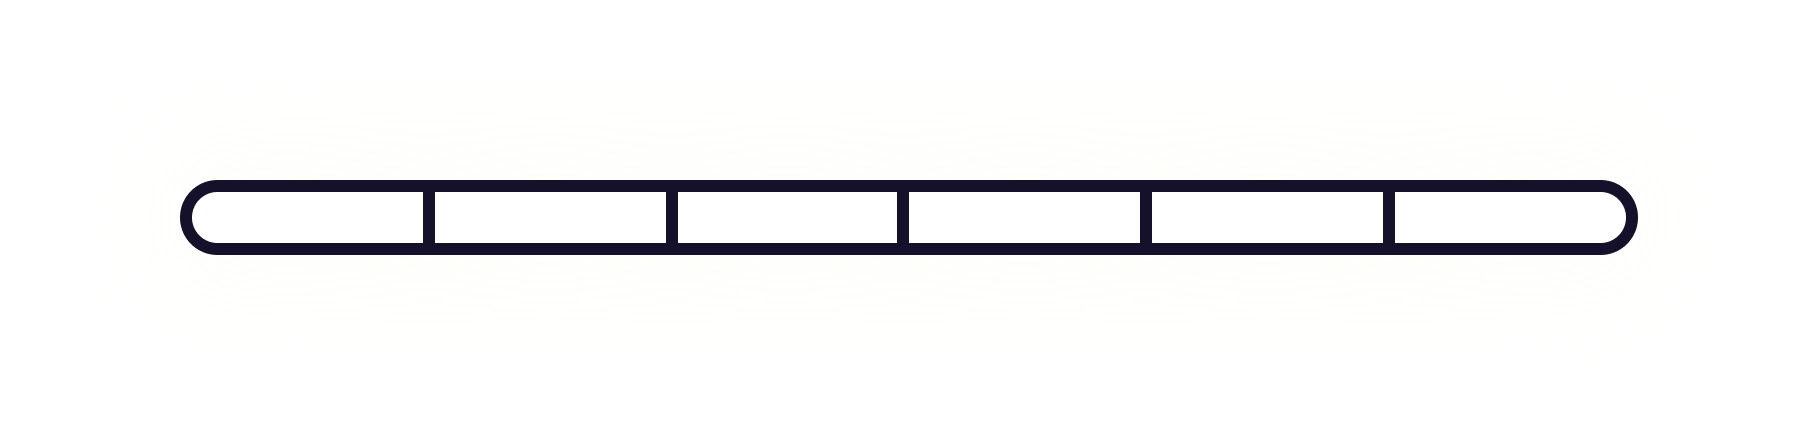
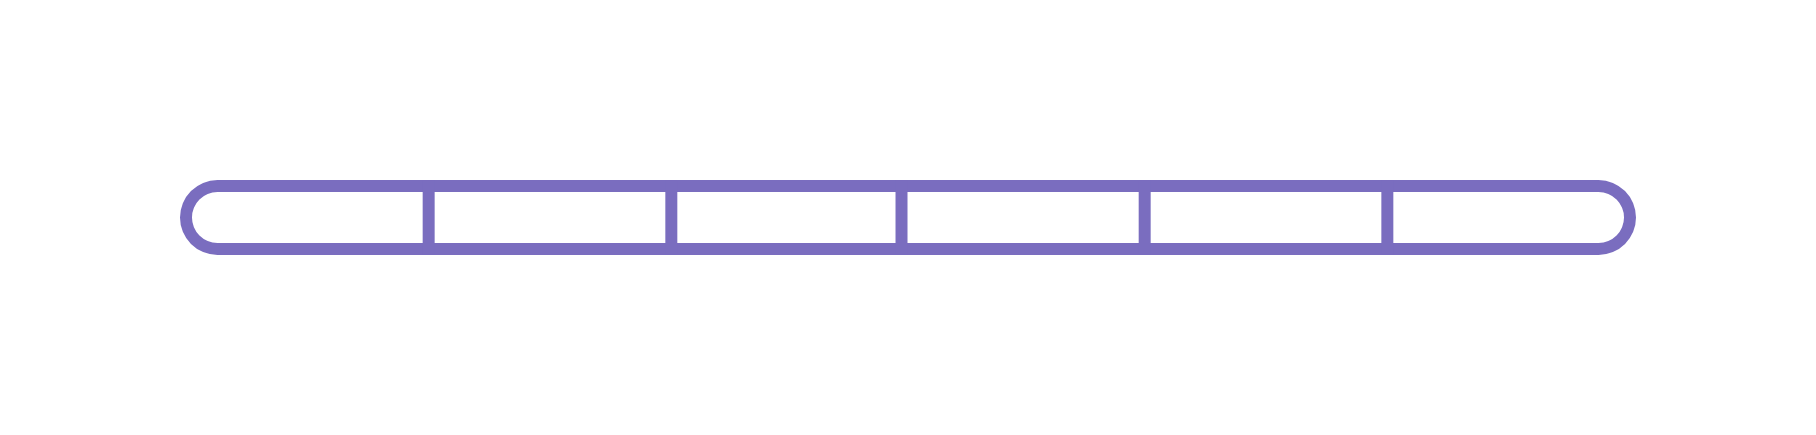
Color Umbrae y barra de vida del Umbrae
Ajusté las luces y sombras del umbrae y cambié la barra de vida.

Changed region(s): [[0.0925, 0.3885, 0.9251, 0.5977]]

diff --git a/Assets/_Scripts/SombraBarraUmbrae.cs b/Assets/_Scripts/SombraBarraUmbrae.cs
@@ -1,0 +1,89 @@
+using UnityEngine;
+
+// Drop shadow violeta y suave de la barra de vida de Umbrae (en el Figma: violeta 7340A2, sin corrimiento).
+// Pone detras de cada pieza una copia con el shader "Pomelo/Sprite Sombra Exterior" (desenfoque por mipmaps:
+// los PNG de la barra tienen mipmaps y malla FullRect). Todo se ajusta desde aca, tambien jugando.
+public class SombraBarraUmbrae : MonoBehaviour
+{
+    [Tooltip("Material con el shader 'Pomelo/Sprite Sombra Exterior' (SombraBarraUmbrae.mat).")]
+    [SerializeField] private Material material;
+    [Tooltip("Piezas que llevan sombra.")]
+    [SerializeField] private SpriteRenderer[] piezas;
+
+    [Header("Sombra")]
+    [SerializeField] private Color color = new Color(0.4485f, 0.2506f, 0.6337f, 1f);
+    [Range(0f, 1f)] [SerializeField] private float opacidad = 0.35f;
+    [Tooltip("Desenfoque en px del Figma (en el Figma: 60).")]
+    [SerializeField] private float desenfoque = 60f;
+    [Tooltip("Corrimiento vertical en px del Figma (positivo = la sombra baja).")]
+    [SerializeField] private float corrimientoY = 0f;
+    [Tooltip("Orden de dibujo de las sombras (debajo de la pista, que esta en 3).")]
+    [SerializeField] private int orden = 1;
+
+    [Header("Escala de los PNG")]
+    [SerializeField] private float pixelesPorUnidad = 75f;
+    [Tooltip("Px de los PNG por px del Figma (se exportaron a 1456/852.62).")]
+    [SerializeField] private float pxPorPxFigma = 1.7077f;
+    [Tooltip("Cuanto se agranda el dibujo de la sombra para que no se corte (texeles).")]
+    [SerializeField] private float margen = 80f;
+
+    private SpriteRenderer[] sombras;
+    private MaterialPropertyBlock mpb;
+
+    private static readonly int IdA = Shader.PropertyToID("_SombraA");
+    private static readonly int IdAOpacidad = Shader.PropertyToID("_SombraAOpacidad");
+    private static readonly int IdABlur = Shader.PropertyToID("_SombraABlur");
+    private static readonly int IdAOffset = Shader.PropertyToID("_SombraAOffsetY");
+    private static readonly int IdBOpacidad = Shader.PropertyToID("_SombraBOpacidad");
+    private static readonly int IdPPU = Shader.PropertyToID("_PPU");
+    private static readonly int IdMargen = Shader.PropertyToID("_Margen");
+    private static readonly int IdEscala = Shader.PropertyToID("_EscalaFigma");
+    private static readonly int IdAlfa = Shader.PropertyToID("_Alfa");
+
+    private void Start()
+    {
+        mpb = new MaterialPropertyBlock();
+        if (material == null || piezas == null) return;
+        sombras = new SpriteRenderer[piezas.Length];
+        for (int i = 0; i < piezas.Length; i++)
+        {
+            var p = piezas[i];
+            if (p == null) continue;
+            var go = new GameObject(p.name + " (sombra)");
+            go.transform.SetParent(p.transform, false);
+            var sr = go.AddComponent<SpriteRenderer>();
+            sr.sharedMaterial = material;
+            sr.sortingLayerID = p.sortingLayerID;
+            sombras[i] = sr;
+        }
+        LateUpdate();
+    }
+
+    // cada cuadro: sigue el dibujo de su pieza (y si esta prendida) y toma los valores de arriba
+    private void LateUpdate()
+    {
+        if (sombras == null) return;
+        for (int i = 0; i < sombras.Length; i++)
+        {
+            var s = sombras[i];
+            var p = piezas[i];
+            if (s == null || p == null) continue;
+            s.enabled = p.enabled && p.gameObject.activeInHierarchy && p.sprite != null && opacidad > 0f;
+            if (!s.enabled) continue;
+            s.sprite = p.sprite;
+            s.flipX = p.flipX;
+            s.sortingOrder = orden;
+            s.GetPropertyBlock(mpb);
+            mpb.SetColor(IdA, new Color(color.r, color.g, color.b, 1f));
+            mpb.SetFloat(IdAOpacidad, opacidad * color.a);
+            mpb.SetFloat(IdABlur, desenfoque);
+            mpb.SetFloat(IdAOffset, corrimientoY);
+            mpb.SetFloat(IdBOpacidad, 0f);
+            mpb.SetFloat(IdPPU, pixelesPorUnidad);
+            mpb.SetFloat(IdMargen, margen);
+            mpb.SetFloat(IdEscala, pxPorPxFigma);
+            mpb.SetFloat(IdAlfa, p.color.a);
+            s.SetPropertyBlock(mpb);
+        }
+    }
+}

diff --git a/Assets/_Scripts/BarraVidaUmbrae.cs b/Assets/_Scripts/BarraVidaUmbrae.cs
@@ -37,6 +37,17 @@ public class BarraVidaUmbrae : MonoBehaviour
     [Tooltip("Material con el shader Pomelo/Sprite Aditivo: copias de los ornamentos que suman luz violeta.")]
     [SerializeField] private Material materialAditivo;
 
+    [Header("Al morir Umbrae")]
+    [Tooltip("Segundos que se ve la barra vacia (con la gema llena de color) antes de empezar a desaparecer.")]
+    [SerializeField] private float esperaAlMorir = 1.2f;
+    [Tooltip("Segundos que tarda toda la barra en desvanecerse.")]
+    [SerializeField] private float segundosDesaparecer = 1f;
+
+    private float muerteDesde = -1f;
+    private SpriteRenderer[] todos;
+    private float[] alfasOriginales;
+    private bool desaparecida;
+
     private float relleno, asentado, fantasma;
     private float ultimoGolpe = -99f;
     private Vector3 posicion;
@@ -123,6 +134,31 @@ public class BarraVidaUmbrae : MonoBehaviour
         var cb = colorProtegido; cb.a = alfaBrillo;
         foreach (var b in brillos)
             if (b != null) { b.GetPropertyBlock(mpbBrillo); mpbBrillo.SetColor(IdColor, cb); b.SetPropertyBlock(mpbBrillo); }
+
+        Desaparecer();
+    }
+
+    // Umbrae murio: despues de un momento toda la barra (piezas, gema, sombras y brillos) se desvanece.
+    private void Desaparecer()
+    {
+        if (desaparecida || vida == null || vida.Vivo) return;
+        if (muerteDesde < 0f)
+        {
+            muerteDesde = Time.time;
+            todos = GetComponentsInChildren<SpriteRenderer>(true);
+            alfasOriginales = new float[todos.Length];
+            for (int i = 0; i < todos.Length; i++) alfasOriginales[i] = todos[i].color.a;
+        }
+        float k = Mathf.Clamp01((Time.time - muerteDesde - esperaAlMorir) / Mathf.Max(0.01f, segundosDesaparecer));
+        float a = 1f - Mathf.SmoothStep(0f, 1f, k);
+        for (int i = 0; i < todos.Length; i++)
+        {
+            var sr = todos[i];
+            if (sr == null) continue;
+            var c = sr.color; c.a = alfasOriginales[i] * a; sr.color = c;
+            if (k >= 1f) sr.enabled = false;
+        }
+        if (k >= 1f) desaparecida = true;
     }
 
     private void Aplicar(float destello)
